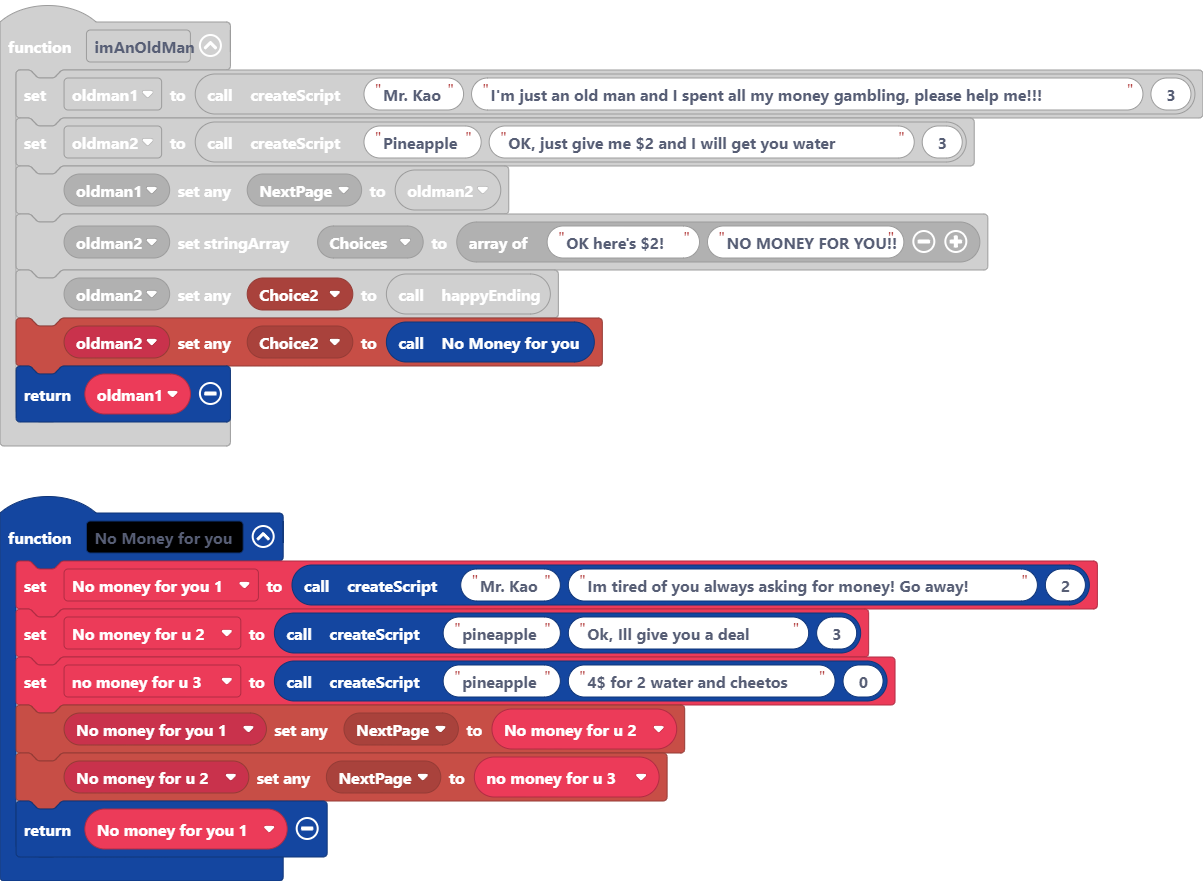
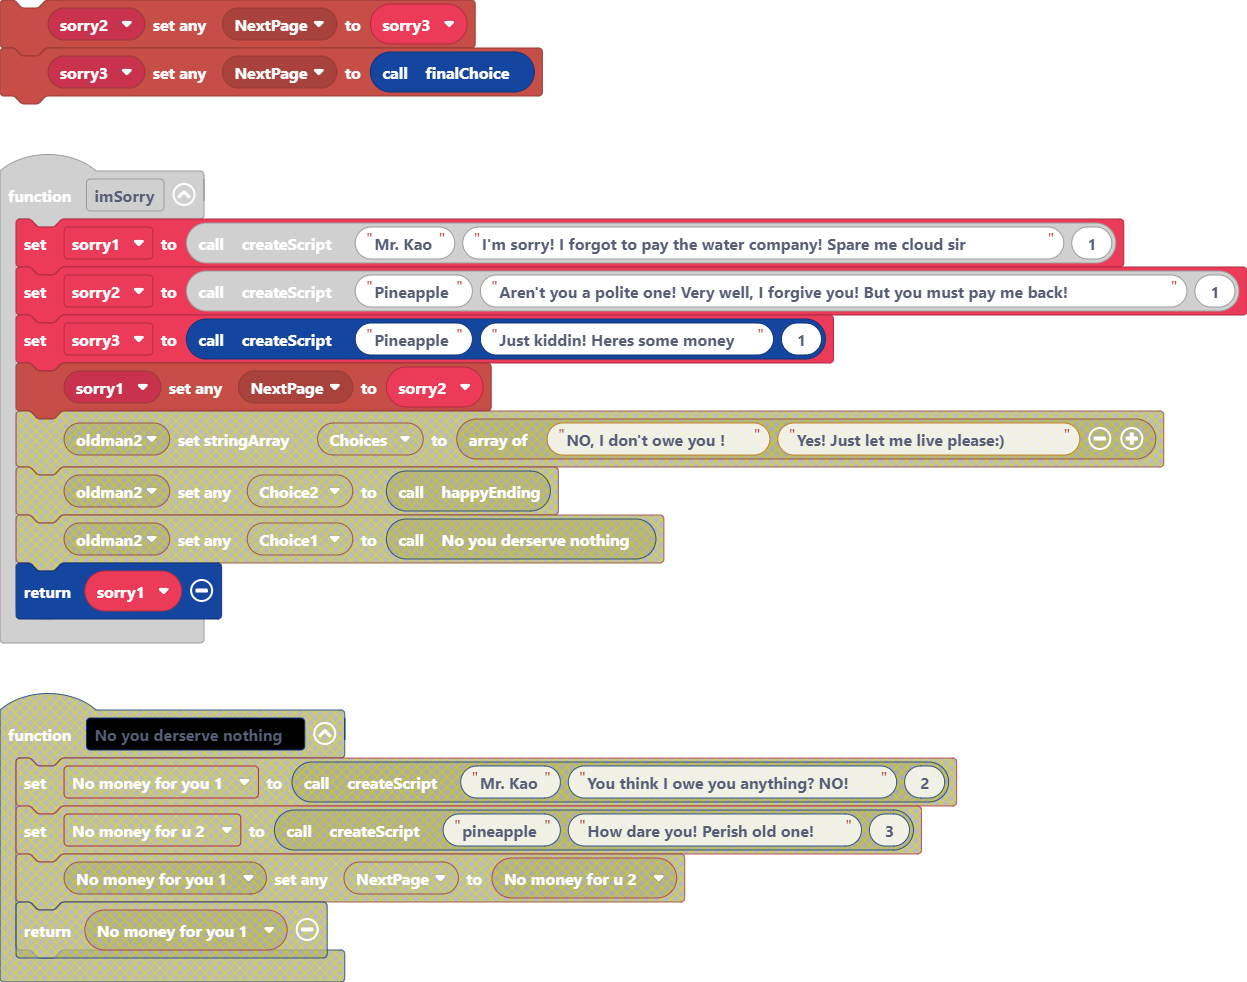
finishing sad ending

diff --git a/main.ts b/main.ts
@@ -44,13 +44,13 @@ function happyEnding () {
     return happy1
 }
 function imSorry () {
-    oldman1 = createScript("Mr. Kao", "I'm sorry! I forgot to pay the water company! Spare me cloud sir", 1)
-    oldman2 = createScript("Pineapple", "Aren't you a polite one! Very well, I forgive you! But you must pay me back!", 1)
-    blockObject.setAnyProperty(oldman1, AnyProp.NextPage, oldman2)
-    blockObject.setStringArrayProperty(oldman2, StrArrayProp.Choices, ["NO, I don't owe you !", "Yes! Just let me live please:)"])
-    blockObject.setAnyProperty(oldman2, AnyProp.Choice2, happyEnding())
-    blockObject.setAnyProperty(oldman2, AnyProp.Choice1, No_you_derserve_nothing())
-    return oldman1
+    sorry1 = createScript("Mr. Kao", "I'm sorry! I forgot to pay the water company! Spare me cloud sir", 1)
+    sorry2 = createScript("Pineapple", "Aren't you a polite one! Very well, I forgive you! But you must pay me back!", 1)
+    sorry3 = createScript("Pineapple", "Just kiddin! Heres some money", 1)
+    blockObject.setAnyProperty(sorry1, AnyProp.NextPage, sorry2)
+    blockObject.setAnyProperty(sorry2, AnyProp.NextPage, sorry3)
+    blockObject.setAnyProperty(sorry3, AnyProp.NextPage, finalChoice())
+    return sorry1
 }
 // microsoft/arcade-block-objects
 // 
@@ -167,12 +167,6 @@ controller.down.onEvent(ControllerButtonEvent.Pressed, function () {
         updateChoices()
     }
 })
-function No_you_derserve_nothing () {
-    No_money_for_you_1 = createScript("Mr. Kao", "You think I owe you anything? NO!", 2)
-    No_money_for_u_2 = createScript("pineapple", "How dare you! Perish old one!", 3)
-    blockObject.setAnyProperty(No_money_for_you_1, AnyProp.NextPage, No_money_for_u_2)
-    return No_money_for_you_1
-}
 function createScript (characterName: string, text: string, portrait: number) {
     newScript = blockObject.create()
     blockObject.setStringProperty(newScript, StrProp.Name, characterName)
@@ -181,6 +175,8 @@ function createScript (characterName: string, text: string, portrait: number) {
     return newScript
 }
 let newScript: blockObject.BlockObject = null
+let oldman2: blockObject.BlockObject = null
+let oldman1: blockObject.BlockObject = null
 let printingStuff = false
 let FinalChoice2: blockObject.BlockObject = null
 let FinalChoice1: blockObject.BlockObject = null
@@ -192,8 +188,9 @@ let currentScript: blockObject.BlockObject = null
 let nextPage: blockObject.BlockObject = null
 let startScript: blockObject.BlockObject = null
 let choiceIndex = 0
-let oldman2: blockObject.BlockObject = null
-let oldman1: blockObject.BlockObject = null
+let sorry3: blockObject.BlockObject = null
+let sorry2: blockObject.BlockObject = null
+let sorry1: blockObject.BlockObject = null
 let happy4: blockObject.BlockObject = null
 let happy3: blockObject.BlockObject = null
 let happy2: blockObject.BlockObject = null
